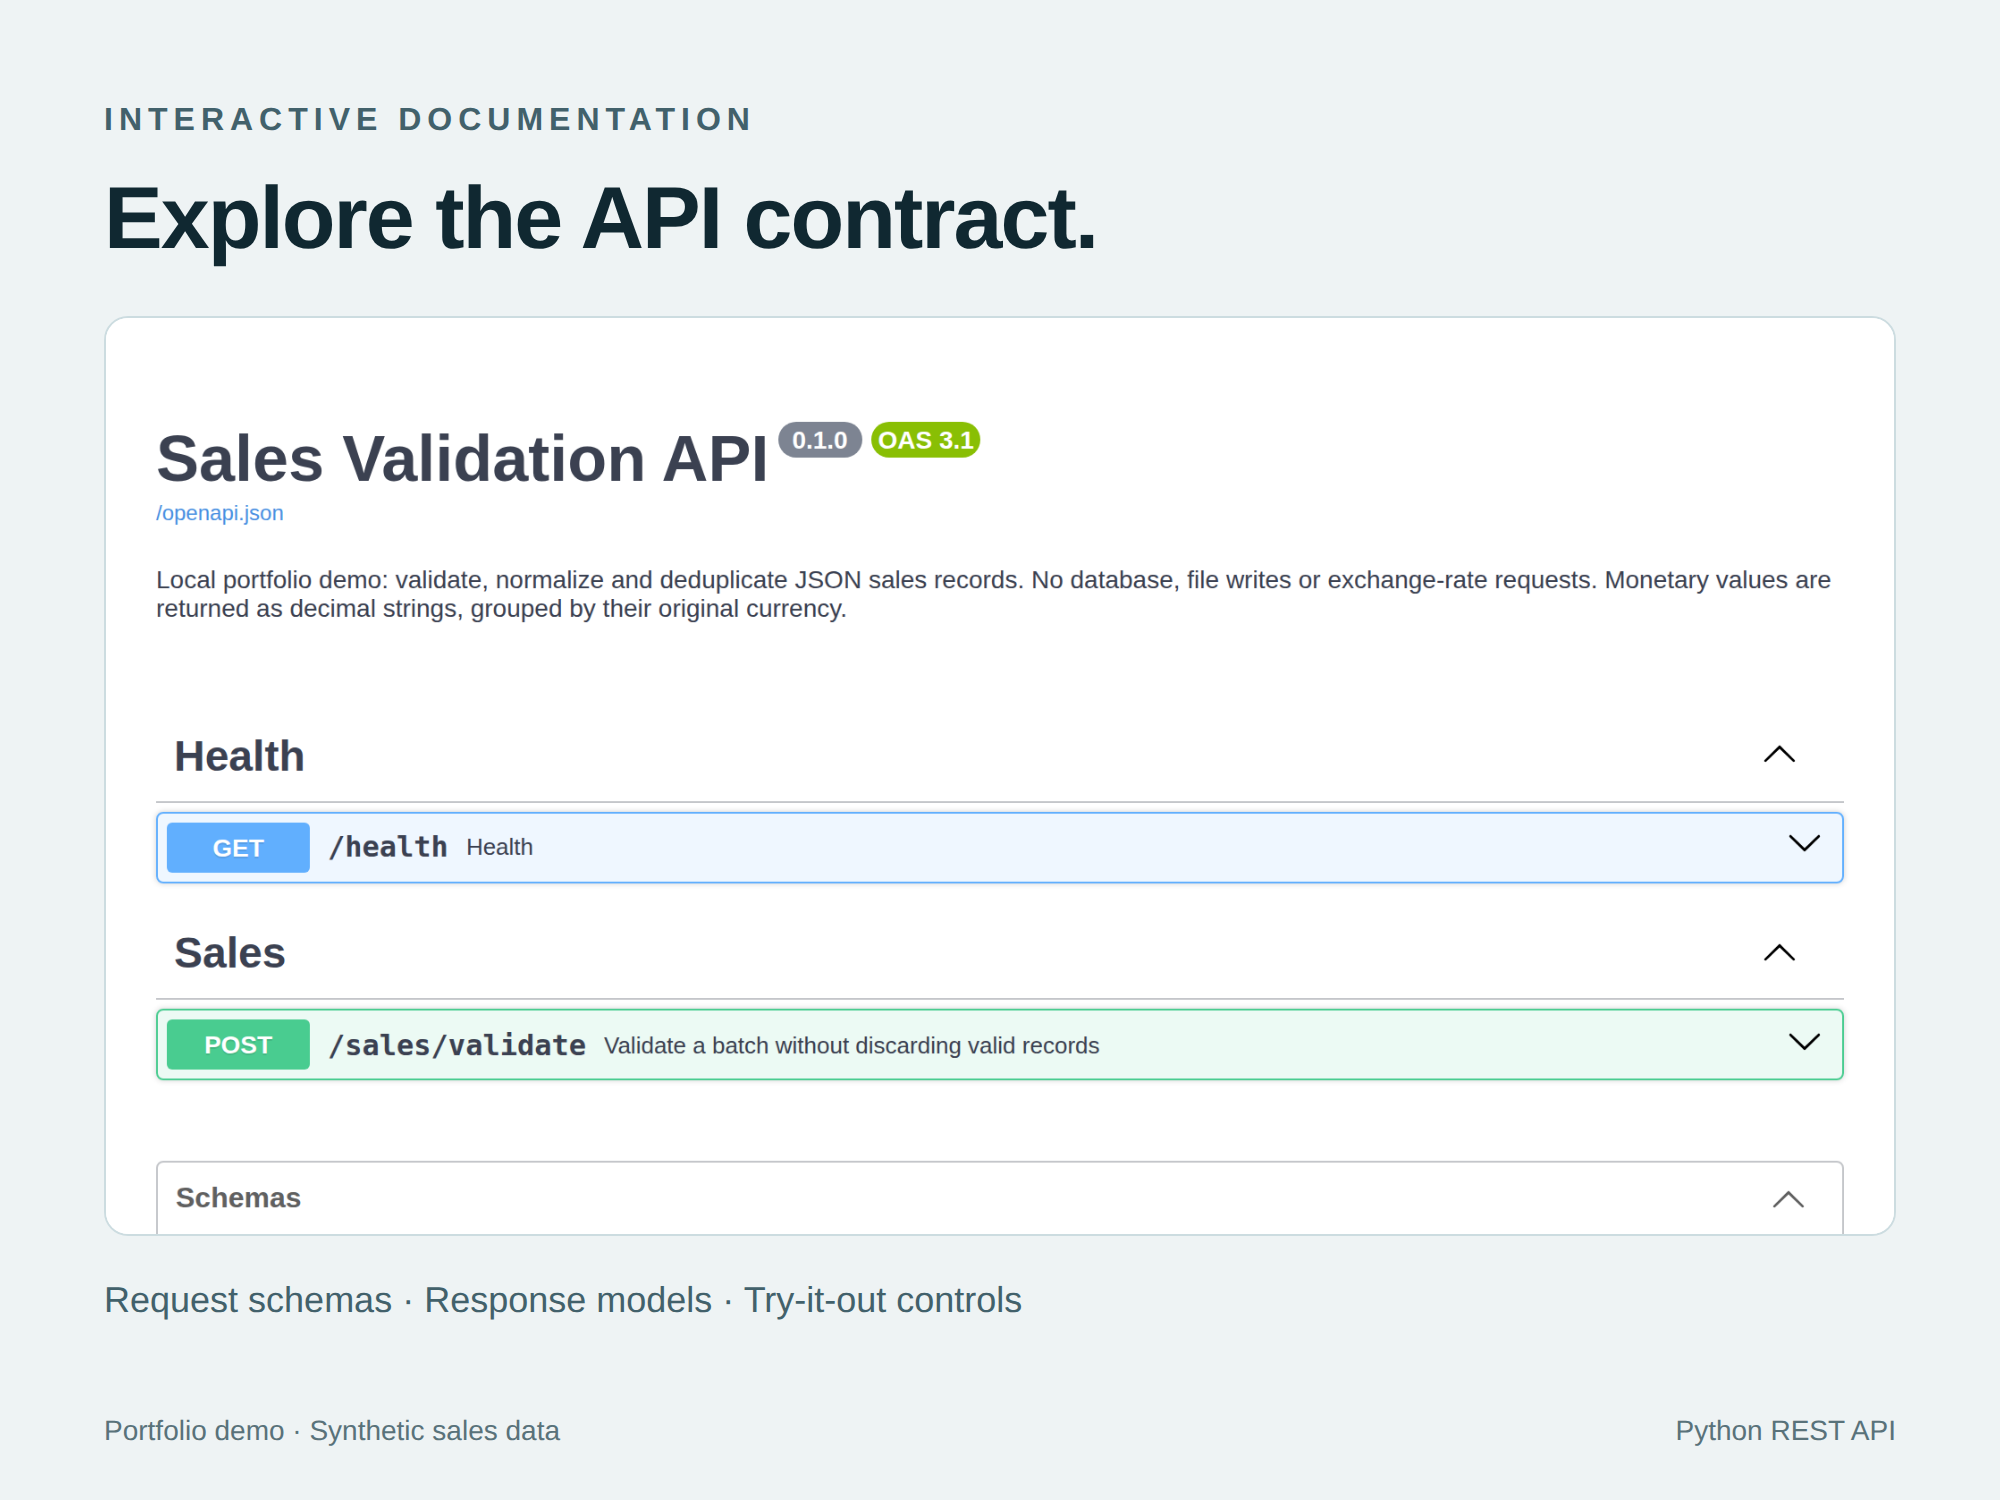
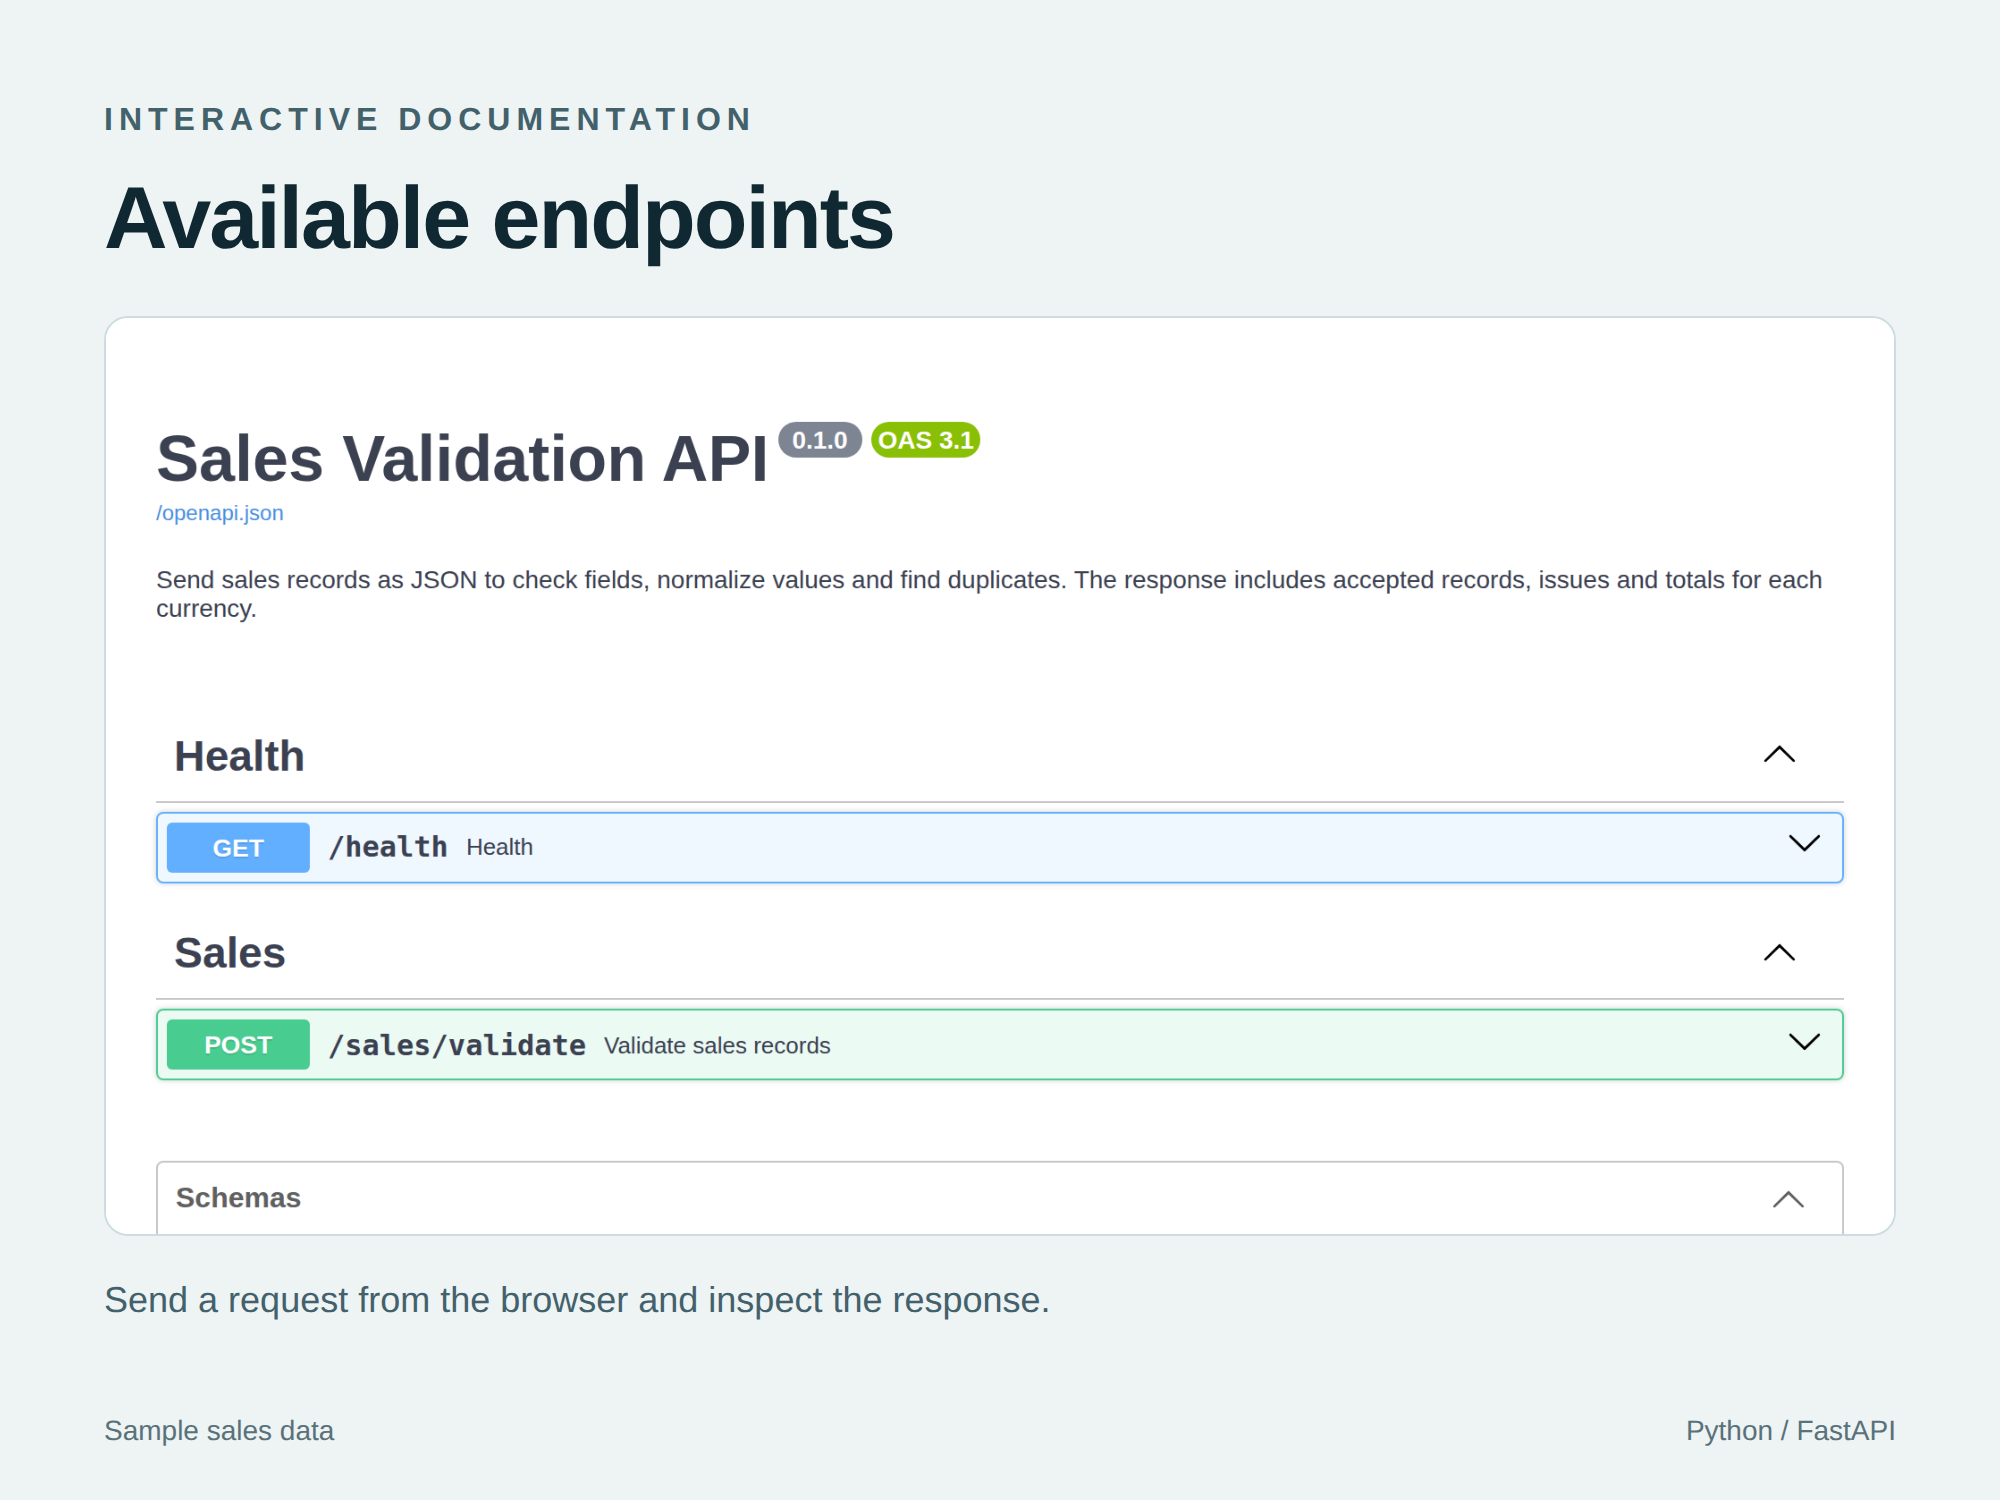
Describe the sales API in plain project language

diff --git a/assets/api/02-sample-result.html b/assets/api/02-sample-result.html
@@ -22,9 +22,9 @@ color:#526b74;margin-top:5px}.split{display:grid;grid-template-columns:1.1fr 1fr
 font-size:18px;line-height:1.4}.issue small{color:#59727a;font-size:14px}
 .doc{width:896px;height:460px;object-fit:cover;object-position:top;border:1px solid #ccdce0;
 border-radius:12px;background:white}.caption{font-size:18px;color:#42616b;margin-top:17px}
-</style></head><main><div class='eyebrow'>Actual API response / HTTP 200</div><h2>Valid records stay.<br><span class='accent'>Issues stay visible.</span></h2><div class='stats'><div class='stat'><div class='num'>4</div><div class='label'>Input records</div></div><div class='stat'><div class='num'>2</div><div class='label'>Accepted</div></div><div class='stat'><div class='num'>1</div><div class='label'>Rejected</div></div><div class='stat'><div class='num'>1</div><div class='label'>Duplicate</div></div></div><div class='split'><div class='dark'><div class='route'>Response excerpt</div><pre>{
+</style></head><main><div class='eyebrow'>POST /sales/validate · HTTP 200</div><h2>Sales validation results</h2><div class='stats'><div class='stat'><div class='num'>4</div><div class='label'>Input records</div></div><div class='stat'><div class='num'>2</div><div class='label'>Accepted</div></div><div class='stat'><div class='num'>1</div><div class='label'>Rejected</div></div><div class='stat'><div class='num'>1</div><div class='label'>Duplicate</div></div></div><div class='split'><div class='dark'><div class='route'>Response excerpt</div><pre>{
   &quot;totals_by_currency&quot;: {
     &quot;EUR&quot;: &quot;15.00&quot;,
     &quot;USD&quot;: &quot;20.50&quot;
   }
-}</pre><div style='margin-top:22px;color:#a2c9d2;font-size:16px'>Separate currency totals.<br>Exact decimal strings.</div></div><div><div class='issue'><small>Record 2 · duplicate</small><div>duplicate transaction; first valid occurrence at row 1; SKU PEN</div></div><div class='issue'><small>Record 3 · rejected</small><div>invalid quantity</div></div></div></div><footer class='footer'><span>Portfolio demo · Synthetic sales data</span><span>Python REST API</span></footer></main></html>
+}</pre><div style='margin-top:22px;color:#a2c9d2;font-size:16px'>Separate currency totals.<br>Exact decimal strings.</div></div><div><div class='issue'><small>Record 2 · duplicate</small><div>duplicate transaction; first valid occurrence at row 1; SKU PEN</div></div><div class='issue'><small>Record 3 · rejected</small><div>invalid quantity</div></div></div></div><footer class='footer'><span>Sample sales data</span><span>Python / FastAPI</span></footer></main></html>

diff --git a/assets/api/01-service-cover.html b/assets/api/01-service-cover.html
@@ -22,4 +22,4 @@ color:#526b74;margin-top:5px}.split{display:grid;grid-template-columns:1.1fr 1fr
 font-size:18px;line-height:1.4}.issue small{color:#59727a;font-size:14px}
 .doc{width:896px;height:460px;object-fit:cover;object-position:top;border:1px solid #ccdce0;
 border-radius:12px;background:white}.caption{font-size:18px;color:#42616b;margin-top:17px}
-</style></head><main><div class='eyebrow'>Python / FastAPI</div><h1>Small APIs.<br><span class='accent'>Clear contracts.</span></h1><div class='sub'>From defined inputs to documented responses.</div><div class='flow'><div class='node'>JSON input</div><span class='arrow'>→</span><div class='node'>Validate & process</div><span class='arrow'>→</span><div class='node'>JSON output</div></div><div class='dark route'><span class='method'>POST</span>/sales/validate</div><div class='badges' style='margin-top:28px'><span class='badge'>Input validation</span><span class='badge'>API documentation</span><span class='badge'>Tests included</span></div><footer class='footer'><span>Portfolio demo · Synthetic sales data</span><span>Python REST API</span></footer></main></html>
+</style></head><main><div class='eyebrow'>Python / FastAPI</div><h1>Sales data<br><span class='accent'>validation API</span></h1><div class='sub'>Checks fields, finds duplicates and returns a summary.</div><div class='flow'><div class='node'>Sales records</div><span class='arrow'>→</span><div class='node'>Validation</div><span class='arrow'>→</span><div class='node'>Results & issues</div></div><div class='dark route'><span class='method'>POST</span>/sales/validate</div><div class='badges' style='margin-top:28px'><span class='badge'>JSON input / output</span><span class='badge'>Request examples</span><span class='badge'>Automated tests</span></div><footer class='footer'><span>Sample sales data</span><span>Python / FastAPI</span></footer></main></html>

diff --git a/assets/api/03-api-docs.html b/assets/api/03-api-docs.html
@@ -22,4 +22,4 @@ color:#526b74;margin-top:5px}.split{display:grid;grid-template-columns:1.1fr 1fr
 font-size:18px;line-height:1.4}.issue small{color:#59727a;font-size:14px}
 .doc{width:896px;height:460px;object-fit:cover;object-position:top;border:1px solid #ccdce0;
 border-radius:12px;background:white}.caption{font-size:18px;color:#42616b;margin-top:17px}
-</style></head><main><div class='eyebrow'>Interactive documentation</div><h2>Explore the API contract.</h2><img class='doc' src='swagger-raw.png' alt='Actual local API documentation'><div class='caption'>Request schemas · Response models · Try-it-out controls</div><footer class='footer'><span>Portfolio demo · Synthetic sales data</span><span>Python REST API</span></footer></main></html>
+</style></head><main><div class='eyebrow'>Interactive documentation</div><h2>Available endpoints</h2><img class='doc' src='swagger-raw.png' alt='Actual local API documentation'><div class='caption'>Send a request from the browser and inspect the response.</div><footer class='footer'><span>Sample sales data</span><span>Python / FastAPI</span></footer></main></html>

diff --git a/scripts/capture_api_gallery.py b/scripts/capture_api_gallery.py
@@ -79,17 +79,17 @@ def main() -> None:
         + "\n"
     )
     summary = result["summary"]
-    footer = "<footer class='footer'><span>Portfolio demo · Synthetic sales data</span><span>Python REST API</span></footer>"
+    footer = "<footer class='footer'><span>Sample sales data</span><span>Python / FastAPI</span></footer>"
     cover = document(
         "<main><div class='eyebrow'>Python / FastAPI</div>"
-        "<h1>Small APIs.<br><span class='accent'>Clear contracts.</span></h1>"
-        "<div class='sub'>From defined inputs to documented responses.</div>"
-        "<div class='flow'><div class='node'>JSON input</div><span class='arrow'>→</span>"
-        "<div class='node'>Validate & process</div><span class='arrow'>→</span>"
-        "<div class='node'>JSON output</div></div>"
+        "<h1>Sales data<br><span class='accent'>validation API</span></h1>"
+        "<div class='sub'>Checks fields, finds duplicates and returns a summary.</div>"
+        "<div class='flow'><div class='node'>Sales records</div><span class='arrow'>→</span>"
+        "<div class='node'>Validation</div><span class='arrow'>→</span>"
+        "<div class='node'>Results & issues</div></div>"
         "<div class='dark route'><span class='method'>POST</span>/sales/validate</div>"
-        "<div class='badges' style='margin-top:28px'><span class='badge'>Input validation</span>"
-        "<span class='badge'>API documentation</span><span class='badge'>Tests included</span></div>"
+        "<div class='badges' style='margin-top:28px'><span class='badge'>JSON input / output</span>"
+        "<span class='badge'>Request examples</span><span class='badge'>Automated tests</span></div>"
         + footer
         + "</main>"
     )
@@ -111,8 +111,8 @@ def main() -> None:
         for issue in result["issues"]
     )
     run = document(
-        "<main><div class='eyebrow'>Actual API response / HTTP 200</div>"
-        "<h2>Valid records stay.<br><span class='accent'>Issues stay visible.</span></h2>"
+        "<main><div class='eyebrow'>POST /sales/validate · HTTP 200</div>"
+        "<h2>Sales validation results</h2>"
         f"<div class='stats'>{stats}</div><div class='split'>"
         f"<div class='dark'><div class='route'>Response excerpt</div><pre>{excerpt}</pre>"
         "<div style='margin-top:22px;color:#a2c9d2;font-size:16px'>Separate currency totals.<br>Exact decimal strings.</div></div>"
@@ -131,9 +131,9 @@ def main() -> None:
         page.screenshot(path=str(output / "swagger-raw.png"))
         docs = document(
             "<main><div class='eyebrow'>Interactive documentation</div>"
-            "<h2>Explore the API contract.</h2>"
+            "<h2>Available endpoints</h2>"
             "<img class='doc' src='swagger-raw.png' alt='Actual local API documentation'>"
-            "<div class='caption'>Request schemas · Response models · Try-it-out controls</div>"
+            "<div class='caption'>Send a request from the browser and inspect the response.</div>"
             + footer
             + "</main>"
         )

diff --git a/sales_automation/api.py b/sales_automation/api.py
@@ -1,4 +1,4 @@
-"""Local, stateless JSON demo reusing the CLI's sales validation rules."""
+"""HTTP endpoints for the existing sales validation rules."""
 
 from collections import defaultdict
 from dataclasses import asdict
@@ -87,9 +87,8 @@ app = FastAPI(
     title="Sales Validation API",
     version="0.1.0",
     description=(
-        "Local portfolio demo: validate, normalize and deduplicate JSON sales records. "
-        "No database, file writes or exchange-rate requests. Monetary values are returned "
-        "as decimal strings, grouped by their original currency."
+        "Send sales records as JSON to check fields, normalize values and find duplicates. "
+        "The response includes accepted records, issues and totals for each currency."
     ),
 )
 
@@ -103,7 +102,7 @@ def health() -> HealthOutput:
     "/sales/validate",
     response_model=BatchOutput,
     tags=["Sales"],
-    summary="Validate a batch without discarding valid records",
+    summary="Validate sales records",
     description=(
         "Supply 1–1000 records with string-valued cells. Invalid sale values and missing "
         "cells become per-record issues; malformed JSON, wrong types, unknown fields and "

diff --git a/docs/api-demo.md b/docs/api-demo.md
@@ -1,12 +1,11 @@
-# FastAPI sales validation demo
+# Sales validation API
 
-This optional API complements the file-based reconciliation CLI. It demonstrates a
-JSON contract, Pydantic validation, partial batch processing, error responses,
-OpenAPI documentation and endpoint tests. It reuses the existing normalization,
-validation and duplicate-detection functions.
+Use this endpoint when sales records arrive as JSON rather than CSV or Excel files.
+It checks the fields, normalizes values and finds duplicates using the same functions
+as the file workflow. The response contains accepted records, issues and totals for
+each currency. It does not create Excel reports or fetch exchange rates.
 
-All sample records are fictional. This is a locally runnable portfolio component,
-not a deployed service or a client case study.
+The examples use fictional sales records.
 
 ## Run locally
 
@@ -97,23 +96,12 @@ HTTP tests validate the example, mixed/error batches, decimal handling, duplicat
 identity and simultaneous requests. Exchange-rate requests are forbidden by the
 API test fixture. HTTP tests skip if FastAPI is absent; CI installs both extras.
 
-## Boundaries
+## Storage and deployment
 
-No configuration/file reads, report writes, exchange-rate requests, persistent
-records or deduplication across requests. Each call operates on independent data.
-The original CLI still provides file processing and report generation.
+Each request is processed in memory. Records are not saved, and duplicate checks
+apply only within that request. Use the CLI for file imports and Excel reports.
 
-Run on localhost. Authentication, public hosting, storage, file uploads and
-production deployment are outside this sample's scope.
+The commands above bind to localhost. Authentication and public hosting are not
+configured in this project.
 
-## Portfolio walkthrough
-
-1. Show `/docs` and the request model.
-2. Execute the sample and show the two accepted records.
-3. Explain the rejected quantity, duplicate and reconciliation counts.
-4. Show separate currency totals, precise money strings and the original order ID.
-5. Send an invalid request to demonstrate HTTP 422, then show endpoint tests.
-
-Existing video/report assets demonstrate the CLI. The [FastAPI gallery](../assets/api/README.md)
-includes a separate documentation screenshot and a presentation of a verified API
-response. Its capture script and data are included for reproducibility.
+[Screenshots](../assets/api/README.md) show the documentation and the sample response.

diff --git a/README.md b/README.md
@@ -3,6 +3,9 @@
 Python automation that combines sales exports, checks inconsistent records,
 converts currencies through a REST API, and delivers reconciled Excel/CSV reports.
 
+For sales records that already arrive as JSON, a FastAPI endpoint runs the same
+validation and duplicate checks and returns the results directly.
+
 ![Summary of the sample report](assets/summary.png)
 
 [Watch the 75-second walkthrough](assets/demo.mp4) ·
@@ -114,20 +117,24 @@ of the venv and pip installation commands, then activate `.venv` as above.
 Local runs write these files to `output/`, along with `app.log`. The files under
 `examples/output/` are the fixed portfolio examples and are not overwritten.
 
-## Optional FastAPI demo
+## Validate sales over HTTP
 
-The repository also includes a stateless JSON API for validating and deduplicating
-sales records. It reuses the existing domain rules and returns accepted records,
-issues and separate currency totals without file writes or external requests.
+Send a batch of JSON records to `POST /sales/validate`. The response contains
+accepted sales, invalid rows, duplicates and totals for each currency. A bad
+record is reported without preventing the others from being processed.
 
-See [the API demo guide](docs/api-demo.md) for installation, endpoints, example
-requests/responses, tests and a portfolio walkthrough. Install the `api` extra to run
-it; the CLI does not require FastAPI.
+```bash
+python -m pip install -e ".[api]"
+python -m uvicorn sales_automation.api:app --host 127.0.0.1 --port 8000
+```
 
-![FastAPI demo overview](assets/api/01-service-cover.png)
+Open <http://127.0.0.1:8000/docs> to try a request, or use
+[the sample JSON](examples/api/request.json). The [API guide](docs/api-demo.md)
+explains the fields, limits and error responses.
 
-The [API gallery](assets/api/README.md) includes a real sample response and an
-interactive-documentation screenshot using synthetic sales data.
+Unlike the file workflow, this endpoint returns JSON directly. It does not write
+reports or convert currencies. [Screenshots and a sample response](assets/api/README.md)
+show what it returns.
 
 ## Tests
 

diff --git a/assets/api/README.md b/assets/api/README.md
@@ -1,18 +1,17 @@
-# FastAPI gallery
+# API screenshots
 
-The three numbered PNGs are presentation assets for the local portfolio demo:
+These images show the sales validation endpoint and its output:
 
-1. `01-service-cover.png` — service overview.
+1. `01-service-cover.png` — what the endpoint does.
 2. `02-sample-result.png` — actual sample response, counts, issues and currency totals.
-3. `03-api-docs.png` — screenshot of the running API documentation in a presentation frame.
+3. `03-api-docs.png` — the API documentation in the browser.
 
-Each image is 2000×1500 pixels (4:3). All example sales are synthetic. The figures
-describe the sample request, not customer results, performance or freelancer revenue.
+Each image is 2000×1500 pixels (4:3). The sales records are fictional.
 
 `swagger-raw.png` is the unframed documentation screenshot. `sample-response.json`
 was fetched from the running API and checked against `examples/api/response.json`.
-`capture-metadata.json` records capture time. HTML files are reproducible layouts,
-not an additional application or claims about a client interface.
+`capture-metadata.json` records when they were captured. The HTML files contain
+the layouts used to render the images.
 
 ## Recreate
 
